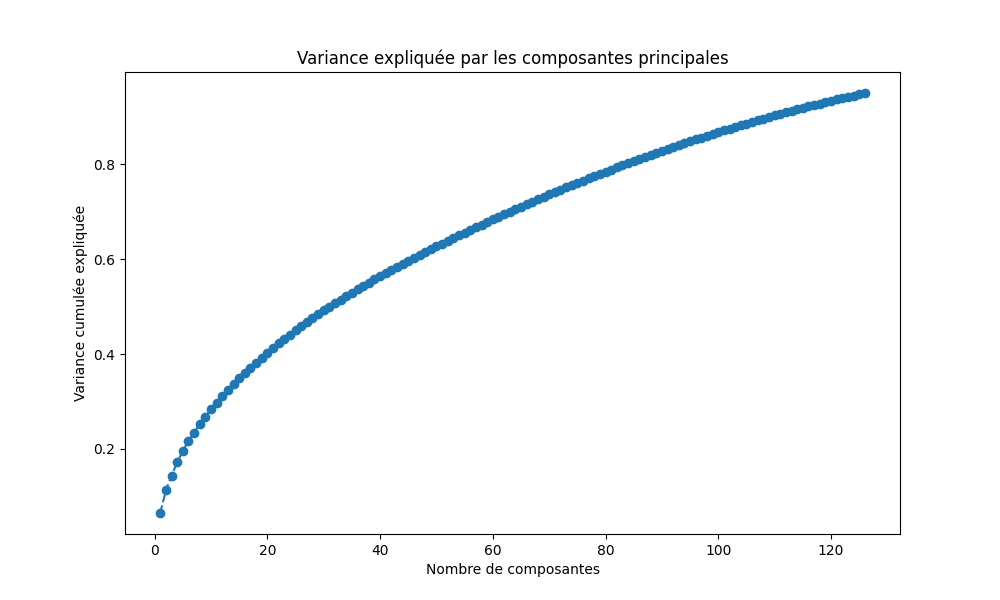
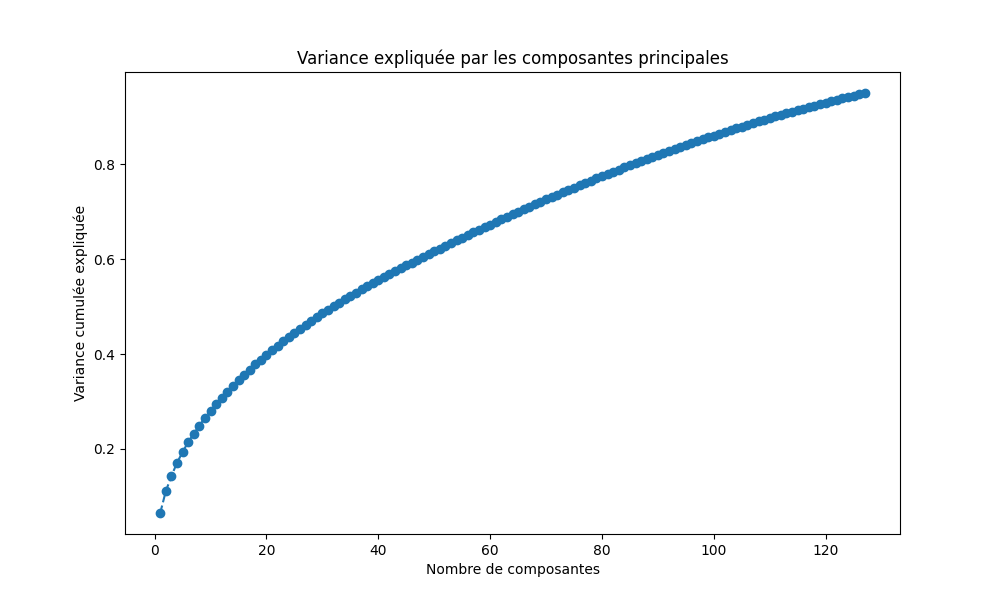
new data

diff --git a/PCA.py b/PCA.py
@@ -3,7 +3,7 @@ from sklearn.decomposition import PCA
 from sklearn.preprocessing import StandardScaler
 import matplotlib.pyplot as plt
 
-df_imputed = pd.read_csv('data/imputed_sample_linear.csv')
+df_imputed = pd.read_csv('data/imputed_sample_ridge.csv')
 
 # Normalization
 scaler = StandardScaler()
@@ -32,4 +32,4 @@ plt.grid()
 plt.show()
 
 # sauvegarder les données réduites
-pd.DataFrame(X_pca).to_csv('data/imputed_sample_pca.csv', index=False)
+pd.DataFrame(X_pca).to_csv('data/imputed_sample_ridge_pca.csv', index=False)
